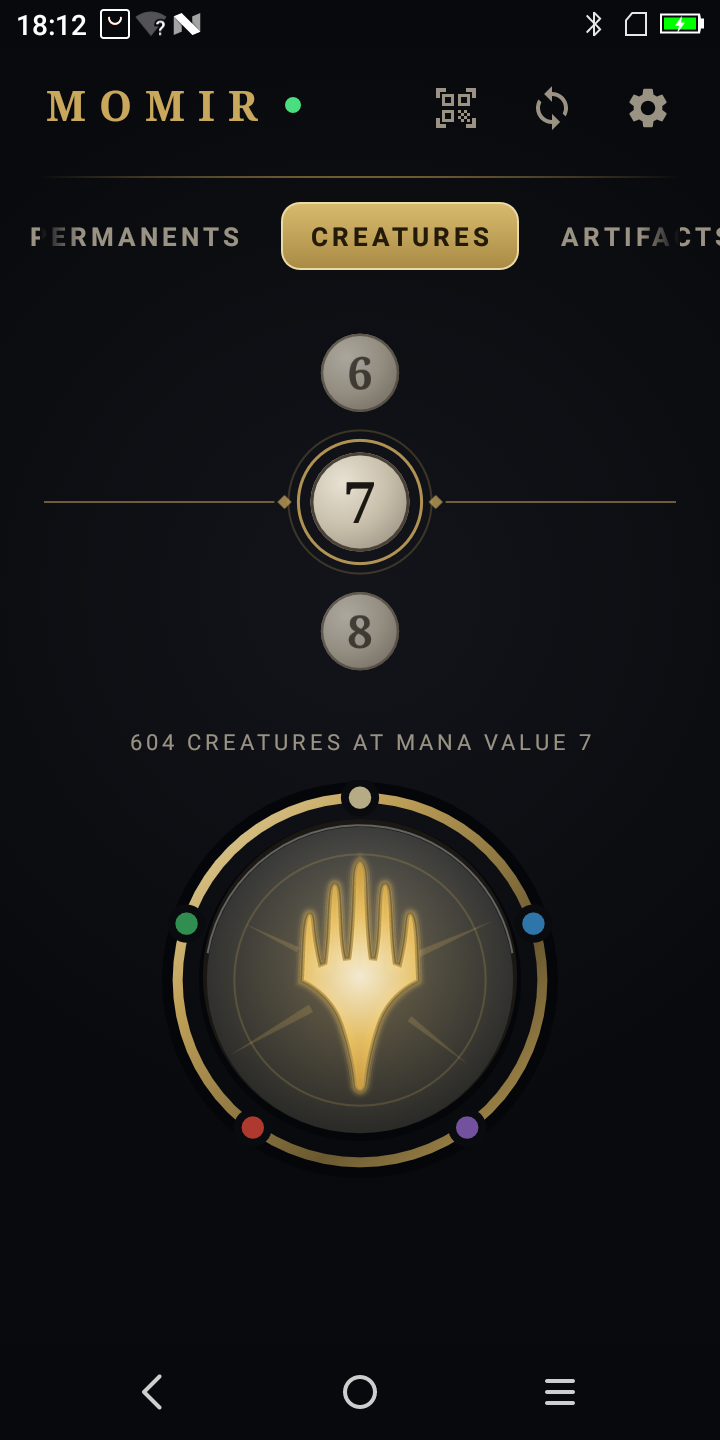
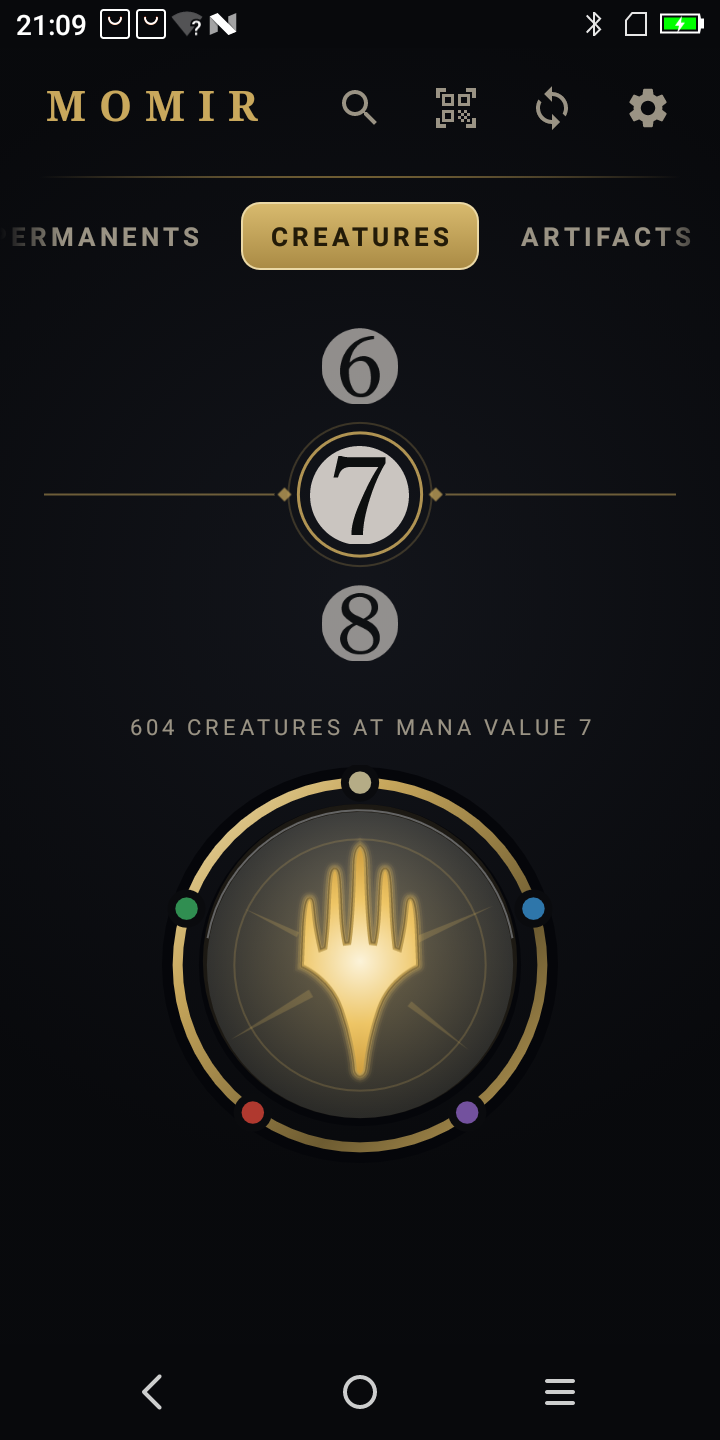
Re-shoot the screenshots, and show the two screens that were missing
Every image in the README was older than the four commits before this one. The
dial still had the hand-drawn stone discs rather than Magic's own symbols, the
header still carried the printer lamp that came back out, and every slip was
missing the mana cost that had gone astray with the colour line.

The card view and the search were in the feature list and nowhere in the
pictures, which for the two things you reach a card through is the wrong way
round. They join the token sheet under "Using it".

Shot on the V2 it documents, at the settings it ships with.

diff --git a/README.md b/README.md
@@ -137,11 +137,16 @@ where it left off.
 | Settings → Test print | Prints a calibration slip for dialling in the paper geometry. |
 
 <p align="center">
-  <img src="docs/images/tokens.png" width="235" alt="The token sheet: what the creature creates, a quantity, and a print button">
+  <img src="docs/images/card.png" width="205" alt="The card view: artwork, mana cost in real symbols, type line and rules text">
+  &nbsp;
+  <img src="docs/images/search.png" width="205" alt="Search: a field and a list of matching cards">
+  &nbsp;
+  <img src="docs/images/tokens.png" width="205" alt="The token sheet: what the card creates, a quantity, and a print button">
 </p>
 
 <p align="center">
-  <sub>The token sheet, however it was opened — it says which of the two it was.</sub>
+  <sub>The card behind the slip, the search, and the token sheet — which says
+  whether it was opened from a roll or from a scan.</sub>
 </p>
 
 ### First-run calibration
